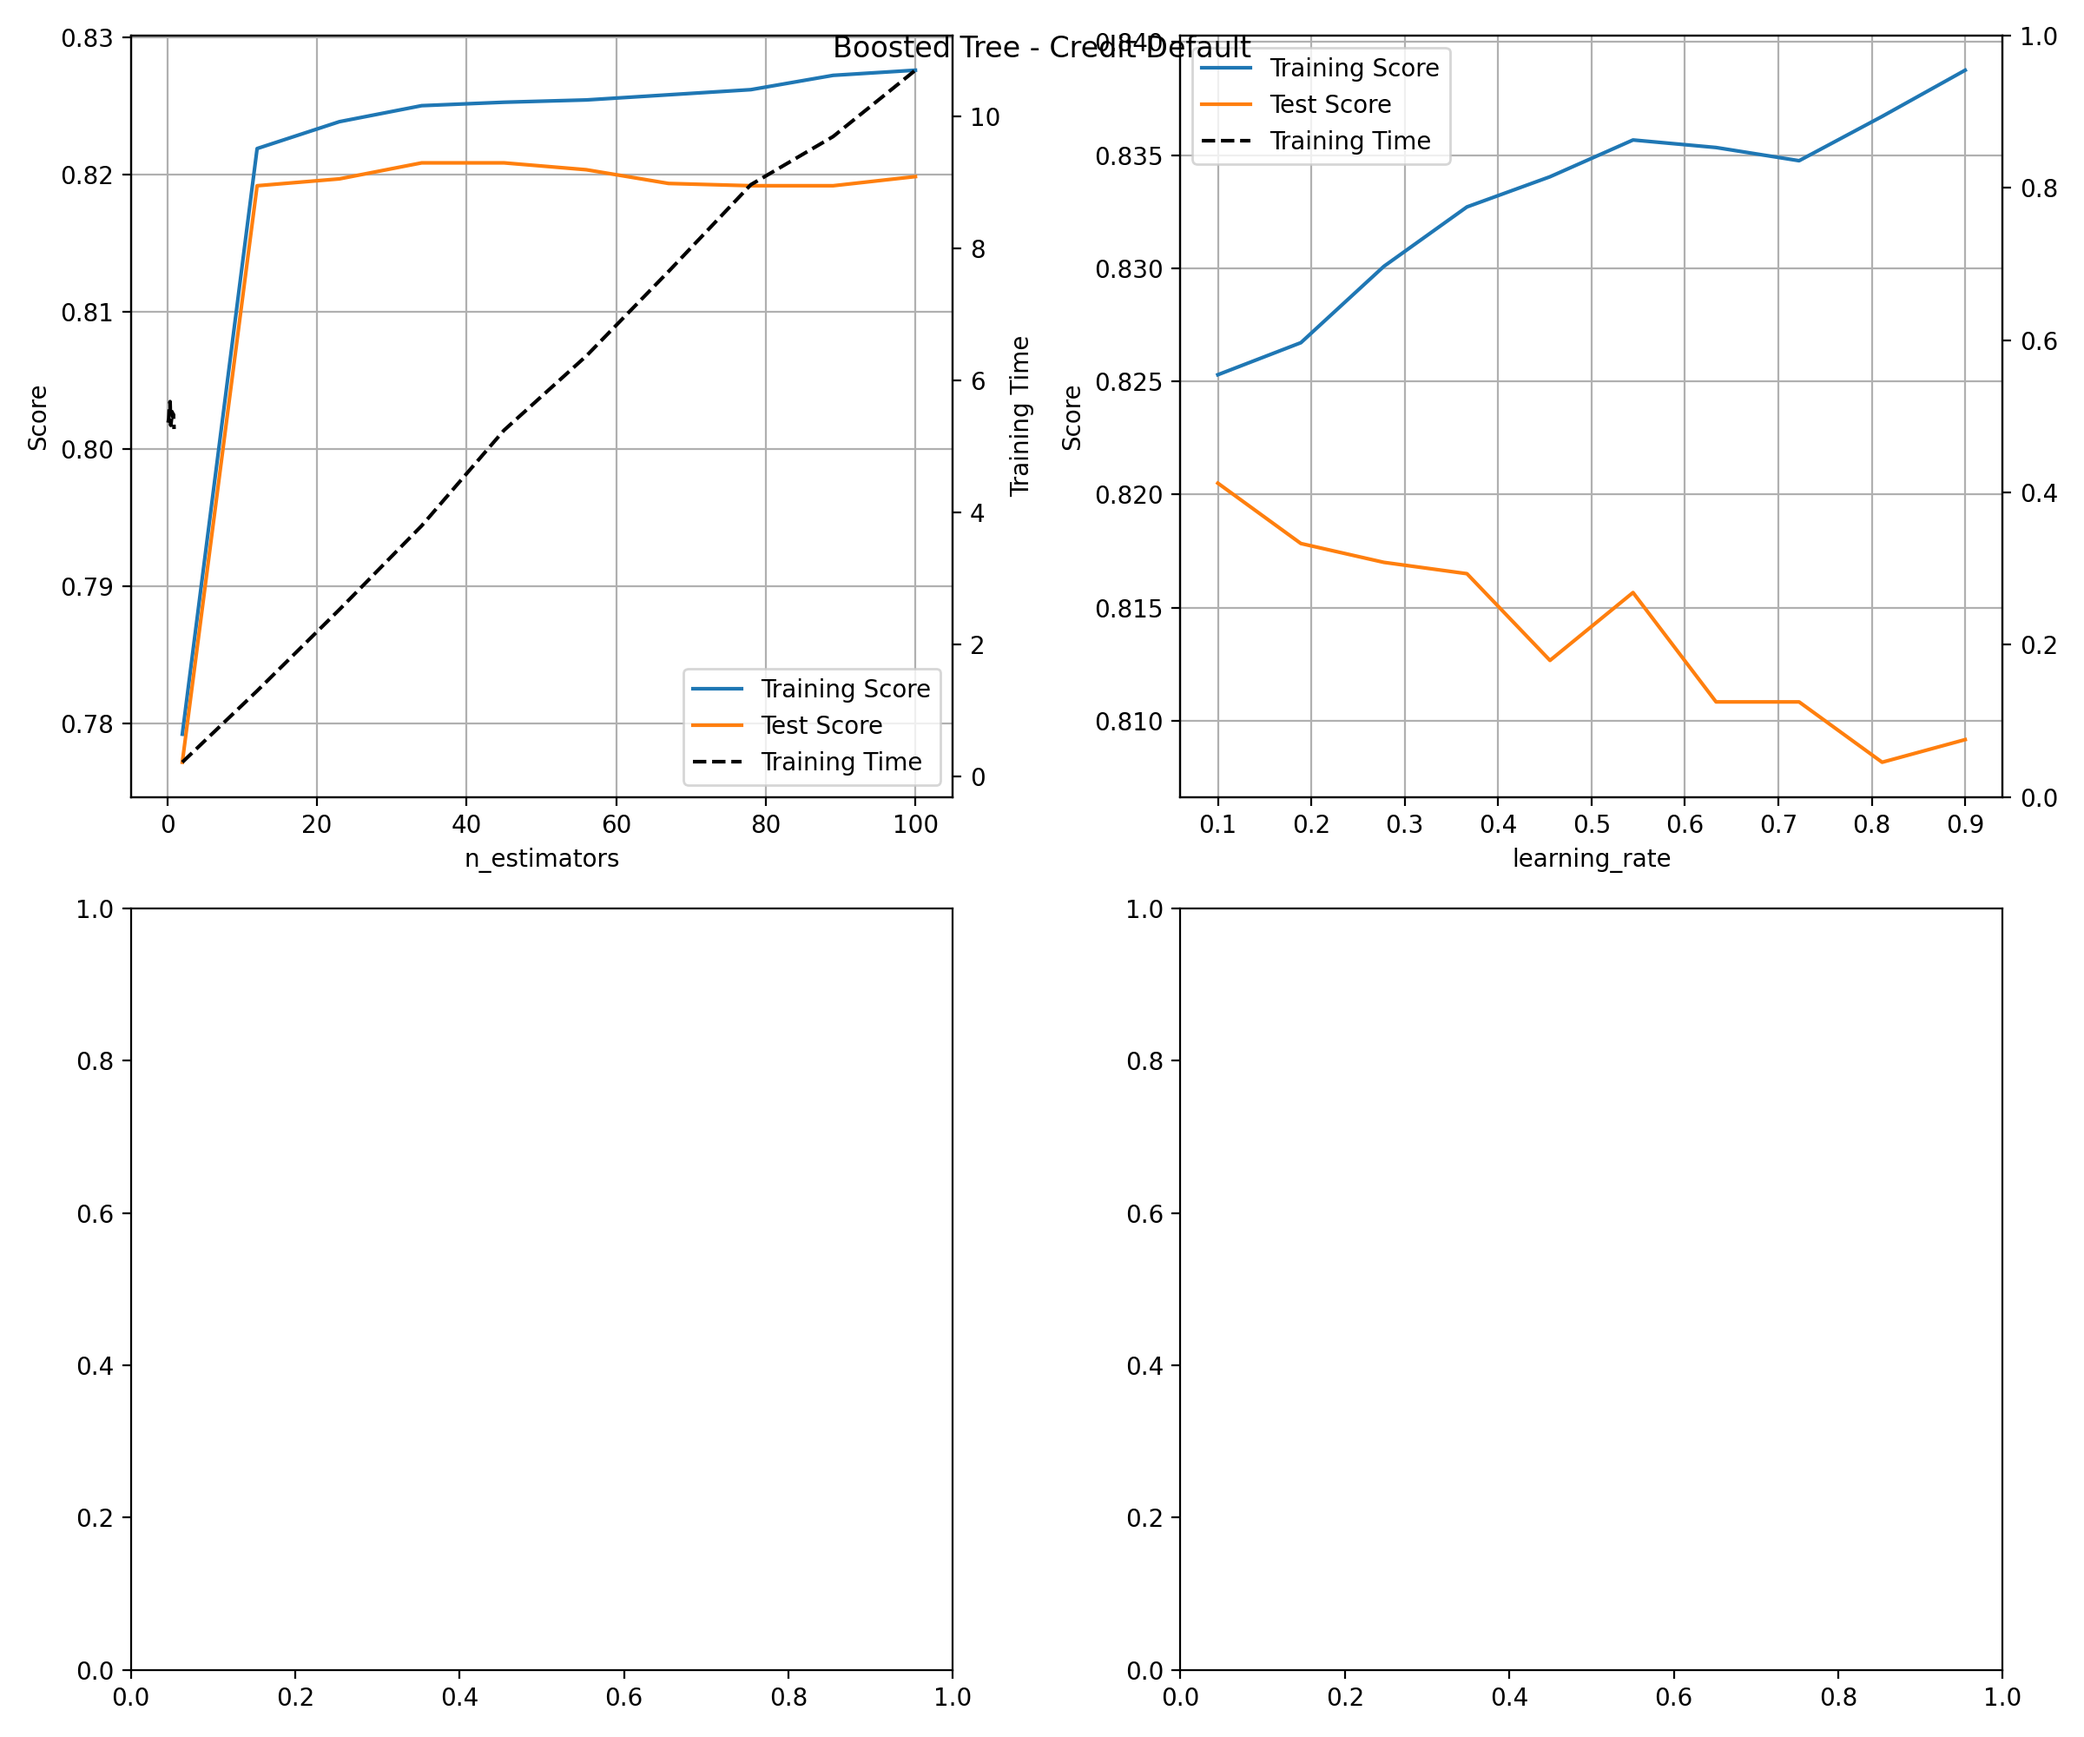
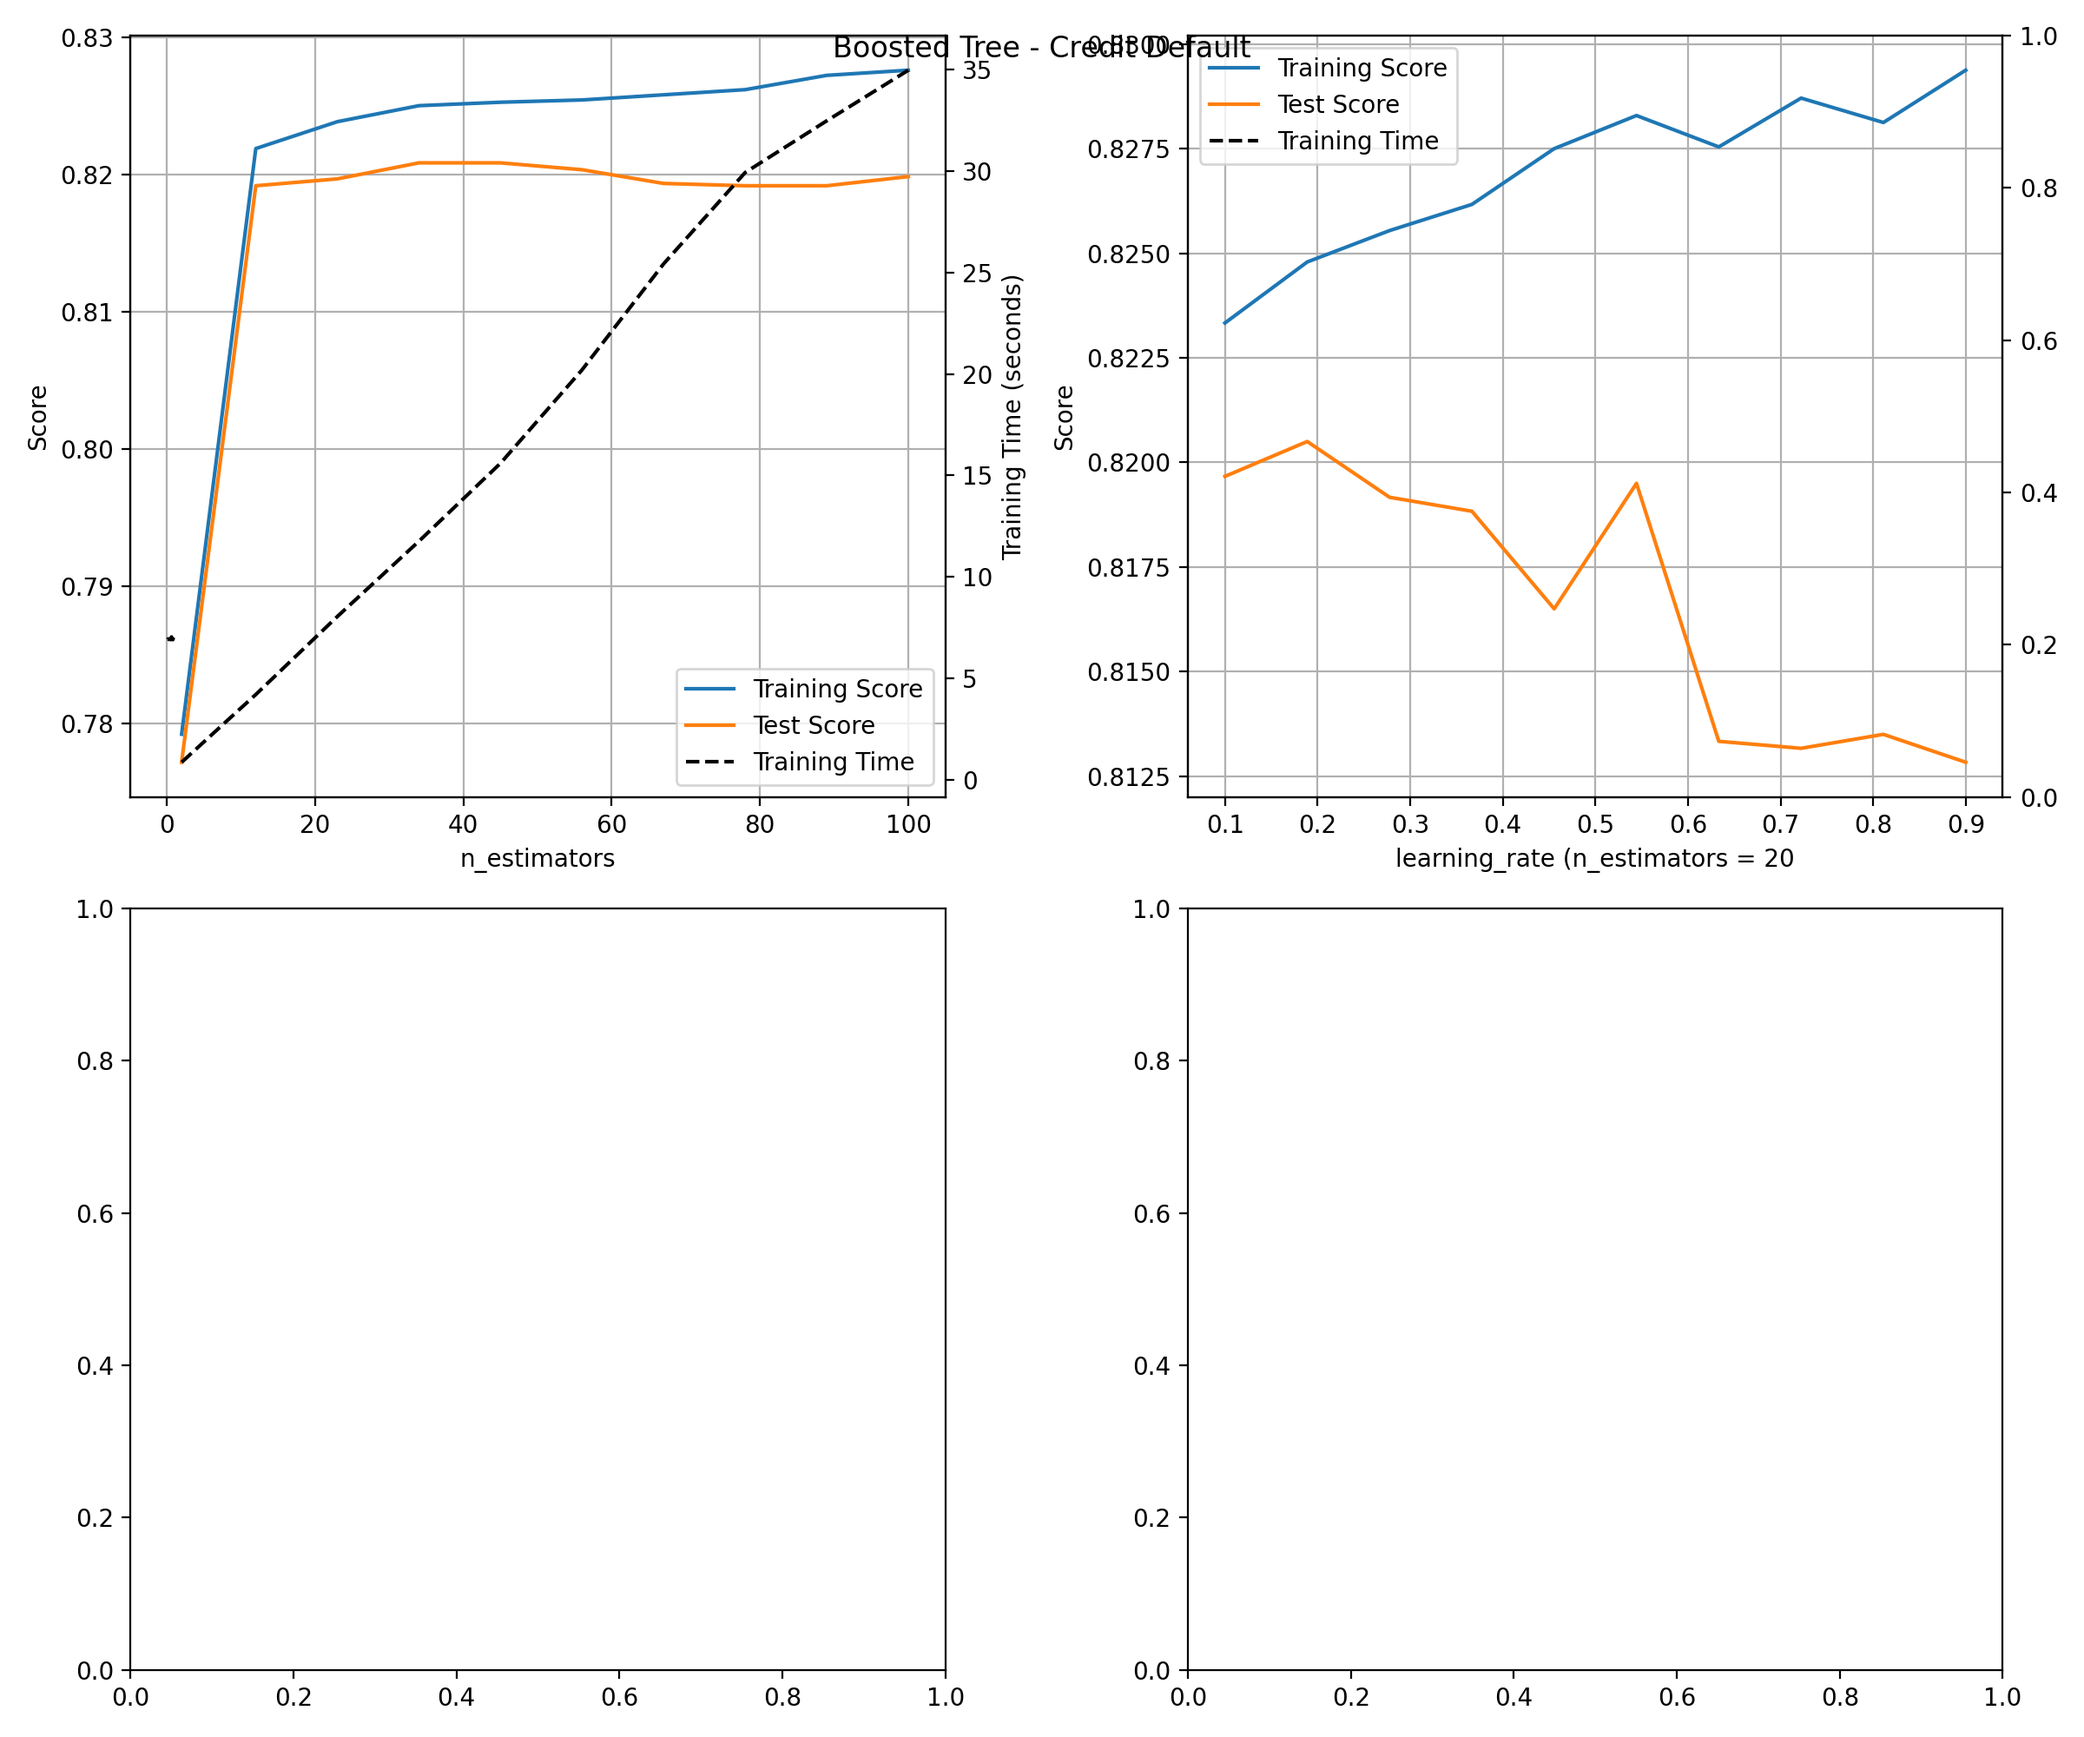
Finish boosting algo

diff --git a/assignment_1.py b/assignment_1.py
@@ -27,8 +27,11 @@ seed = 1
 if __name__ == '__main__':
     os.chdir(os.path.split(__file__)[0])
     
-creditDefaultFile = r".\data\default of credit card clients.xls"
-roomOccupancyFile = r"C:\Users\ec528e\Documents\My Files\School\ML\ML\data\Occupancy_Estimation.csv"
+creditDefaultFile = r"data/default of credit card clients.xls"
+roomOccupancyFile = r"data/Occupancy_Estimation.csv"
+
+creditDefaultFile = os.path.join(os.getcwd(),creditDefaultFile)
+roomOccupancyFile = os.path.join(os.getcwd(),roomOccupancyFile)
 
 ds1 = pd.read_excel(creditDefaultFile,skiprows=1)
 ds2 = pd.read_csv(roomOccupancyFile)
@@ -348,6 +351,31 @@ for DataSetName, ds in datasets.items():
         dt_boost_score_out_md.append(dtscore)
         dt_boost_score_in_md.append(model.score(Xtrain,Ytrain))
     
+    ## Min samples
+    dt_boost_score_out_ms = []
+    dt_boost_score_in_ms = []
+    dt_boost_time_ms = []
+    for ms in min_samples:
+        n_estimators = 20
+        learning_rate = 0.1
+        max_depth = 5
+        model = GradientBoostingClassifier(n_estimators=n_estimator,
+                                           learning_rate=learning_rate,
+                                           max_depth = max_depth,
+                                           min_samples_leaf=ms,
+                                           random_state = seed)
+        
+        # Fit the dt to training data
+        t = timefit(model,(Xtrain,Ytrain))
+        dt_boost_time_md.append(t)
+        
+        # Score on test data
+        dtscore = model.score(Xtest,Ytest)
+        
+        # Add to scores
+        dt_boost_score_out_md.append(dtscore)
+        dt_boost_score_in_md.append(model.score(Xtrain,Ytrain))
+    
     #######################
     # Create plot
     #######################
@@ -380,12 +408,38 @@ for DataSetName, ds in datasets.items():
     ax[0][1].grid()
     ax[0][1].legend(ls,lb,loc=0)
     
+    #Boosting max_depth
+    ax10 = ax[1][0].twinx()
+    l1 = ax[1][0].plot(max_depths,dt_boost_score_in_md,label='Training Score')
+    l2 = ax[1][0].plot(max_depths,dt_boost_score_out_md,label='Test Score')
+    l3 = ax10.plot(max_depths,dt_boost_time_md,'k--',label='Training Time')
+    ax10.set_ylabel('Training Time (seconds)')
+    ls = l1+ l2 + l3
+    lb = [l.get_label() for l in ls]
+    ax[1][0].set_xlabel(f'Max_Depth')
+    ax[1][0].set_ylabel('Score')
+    ax[1][0].grid()
+    ax[1][0].legend(ls,lb,loc=0)
+    
+    #Boosting min_samples_leaf
+    ax11 = ax[1][1].twinx()
+    l1 = ax[1][1].plot(min_samples,dt_boost_score_in_ms,label='Training Score')
+    l2 = ax[1][1].plot(min_samples,dt_boost_score_out_ms,label='Test Score')
+    l3 = ax11.plot(min_samples,dt_boost_time_ms,'k--',label='Training Time')
+    ax10.set_ylabel('Training Time (seconds)')
+    ls = l1+ l2 + l3
+    lb = [l.get_label() for l in ls]
+    ax[1][1].set_xlabel(f'Min_samples_leaf')
+    ax[1][1].set_ylabel('Score')
+    ax[1][1].grid()
+    ax[1][1].legend(ls,lb,loc=0)
+    
     fig.tight_layout()
     plt.suptitle(f'Boosted Tree - {DataSetName}\n')
     plt.savefig(f'BoostedTreeClassifier_{DataSetName}_Figure.png')
     plt.show() # Save fig
     
-
+    # 
 
 
 
